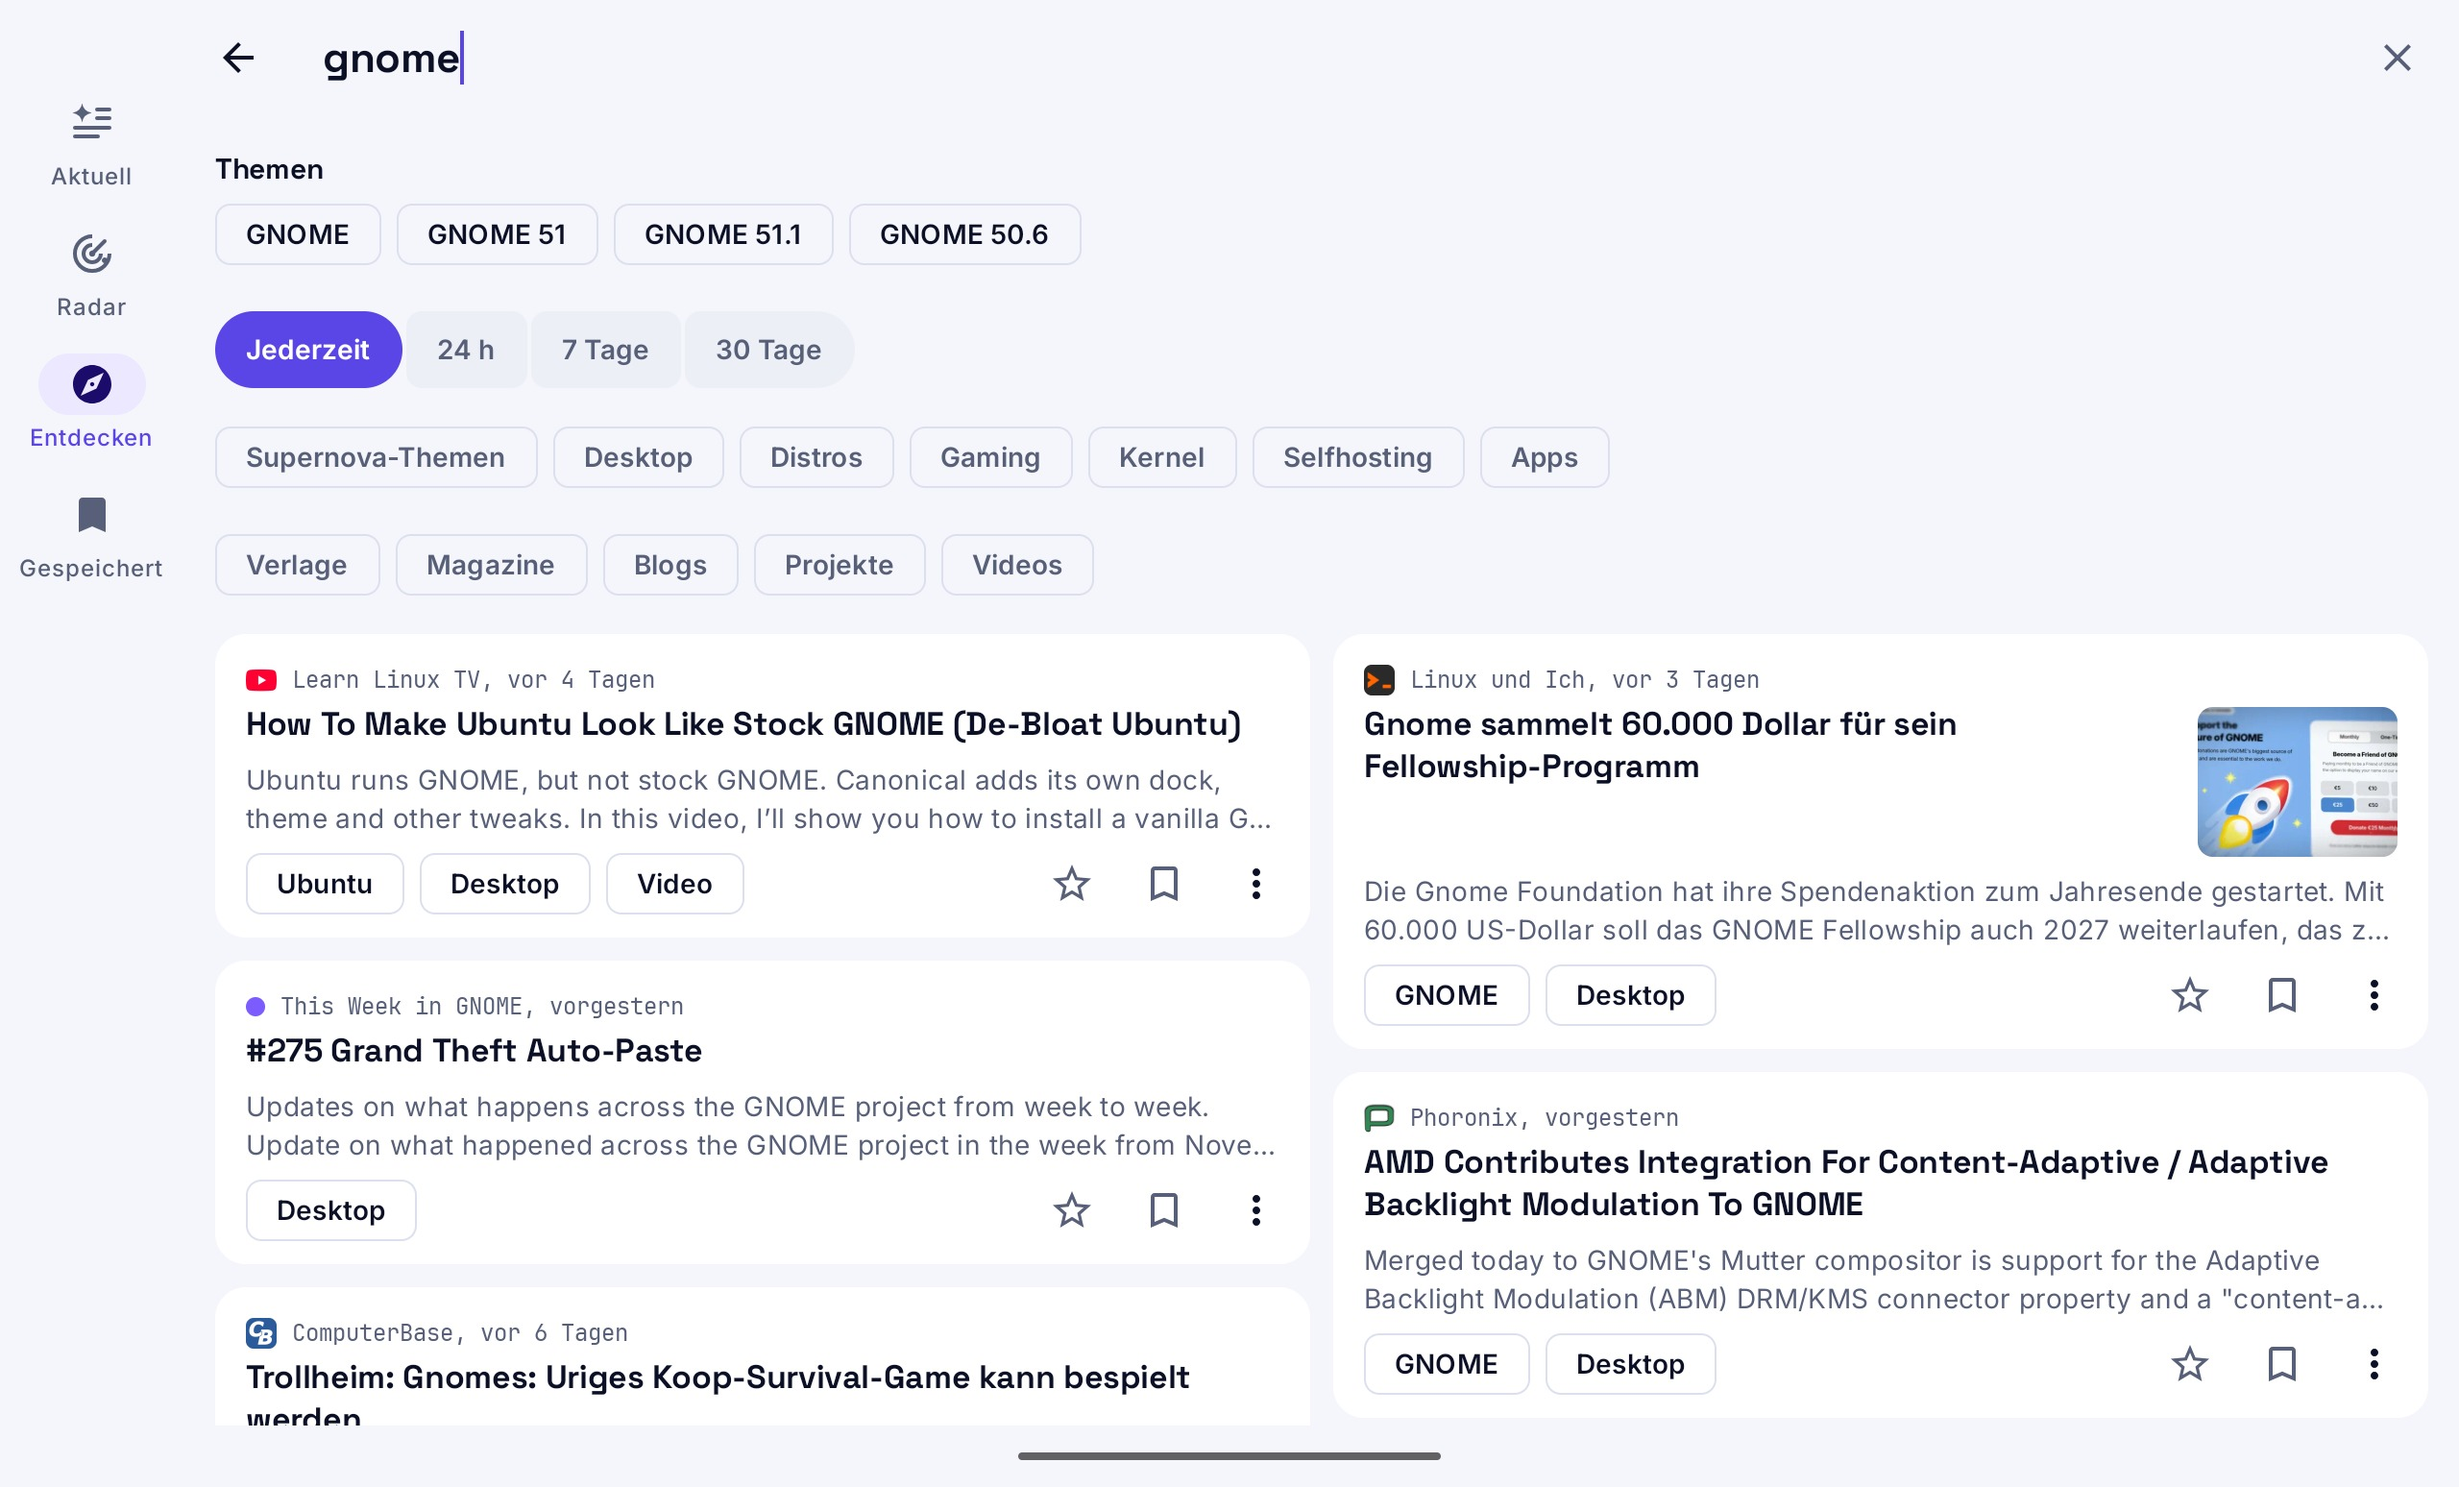
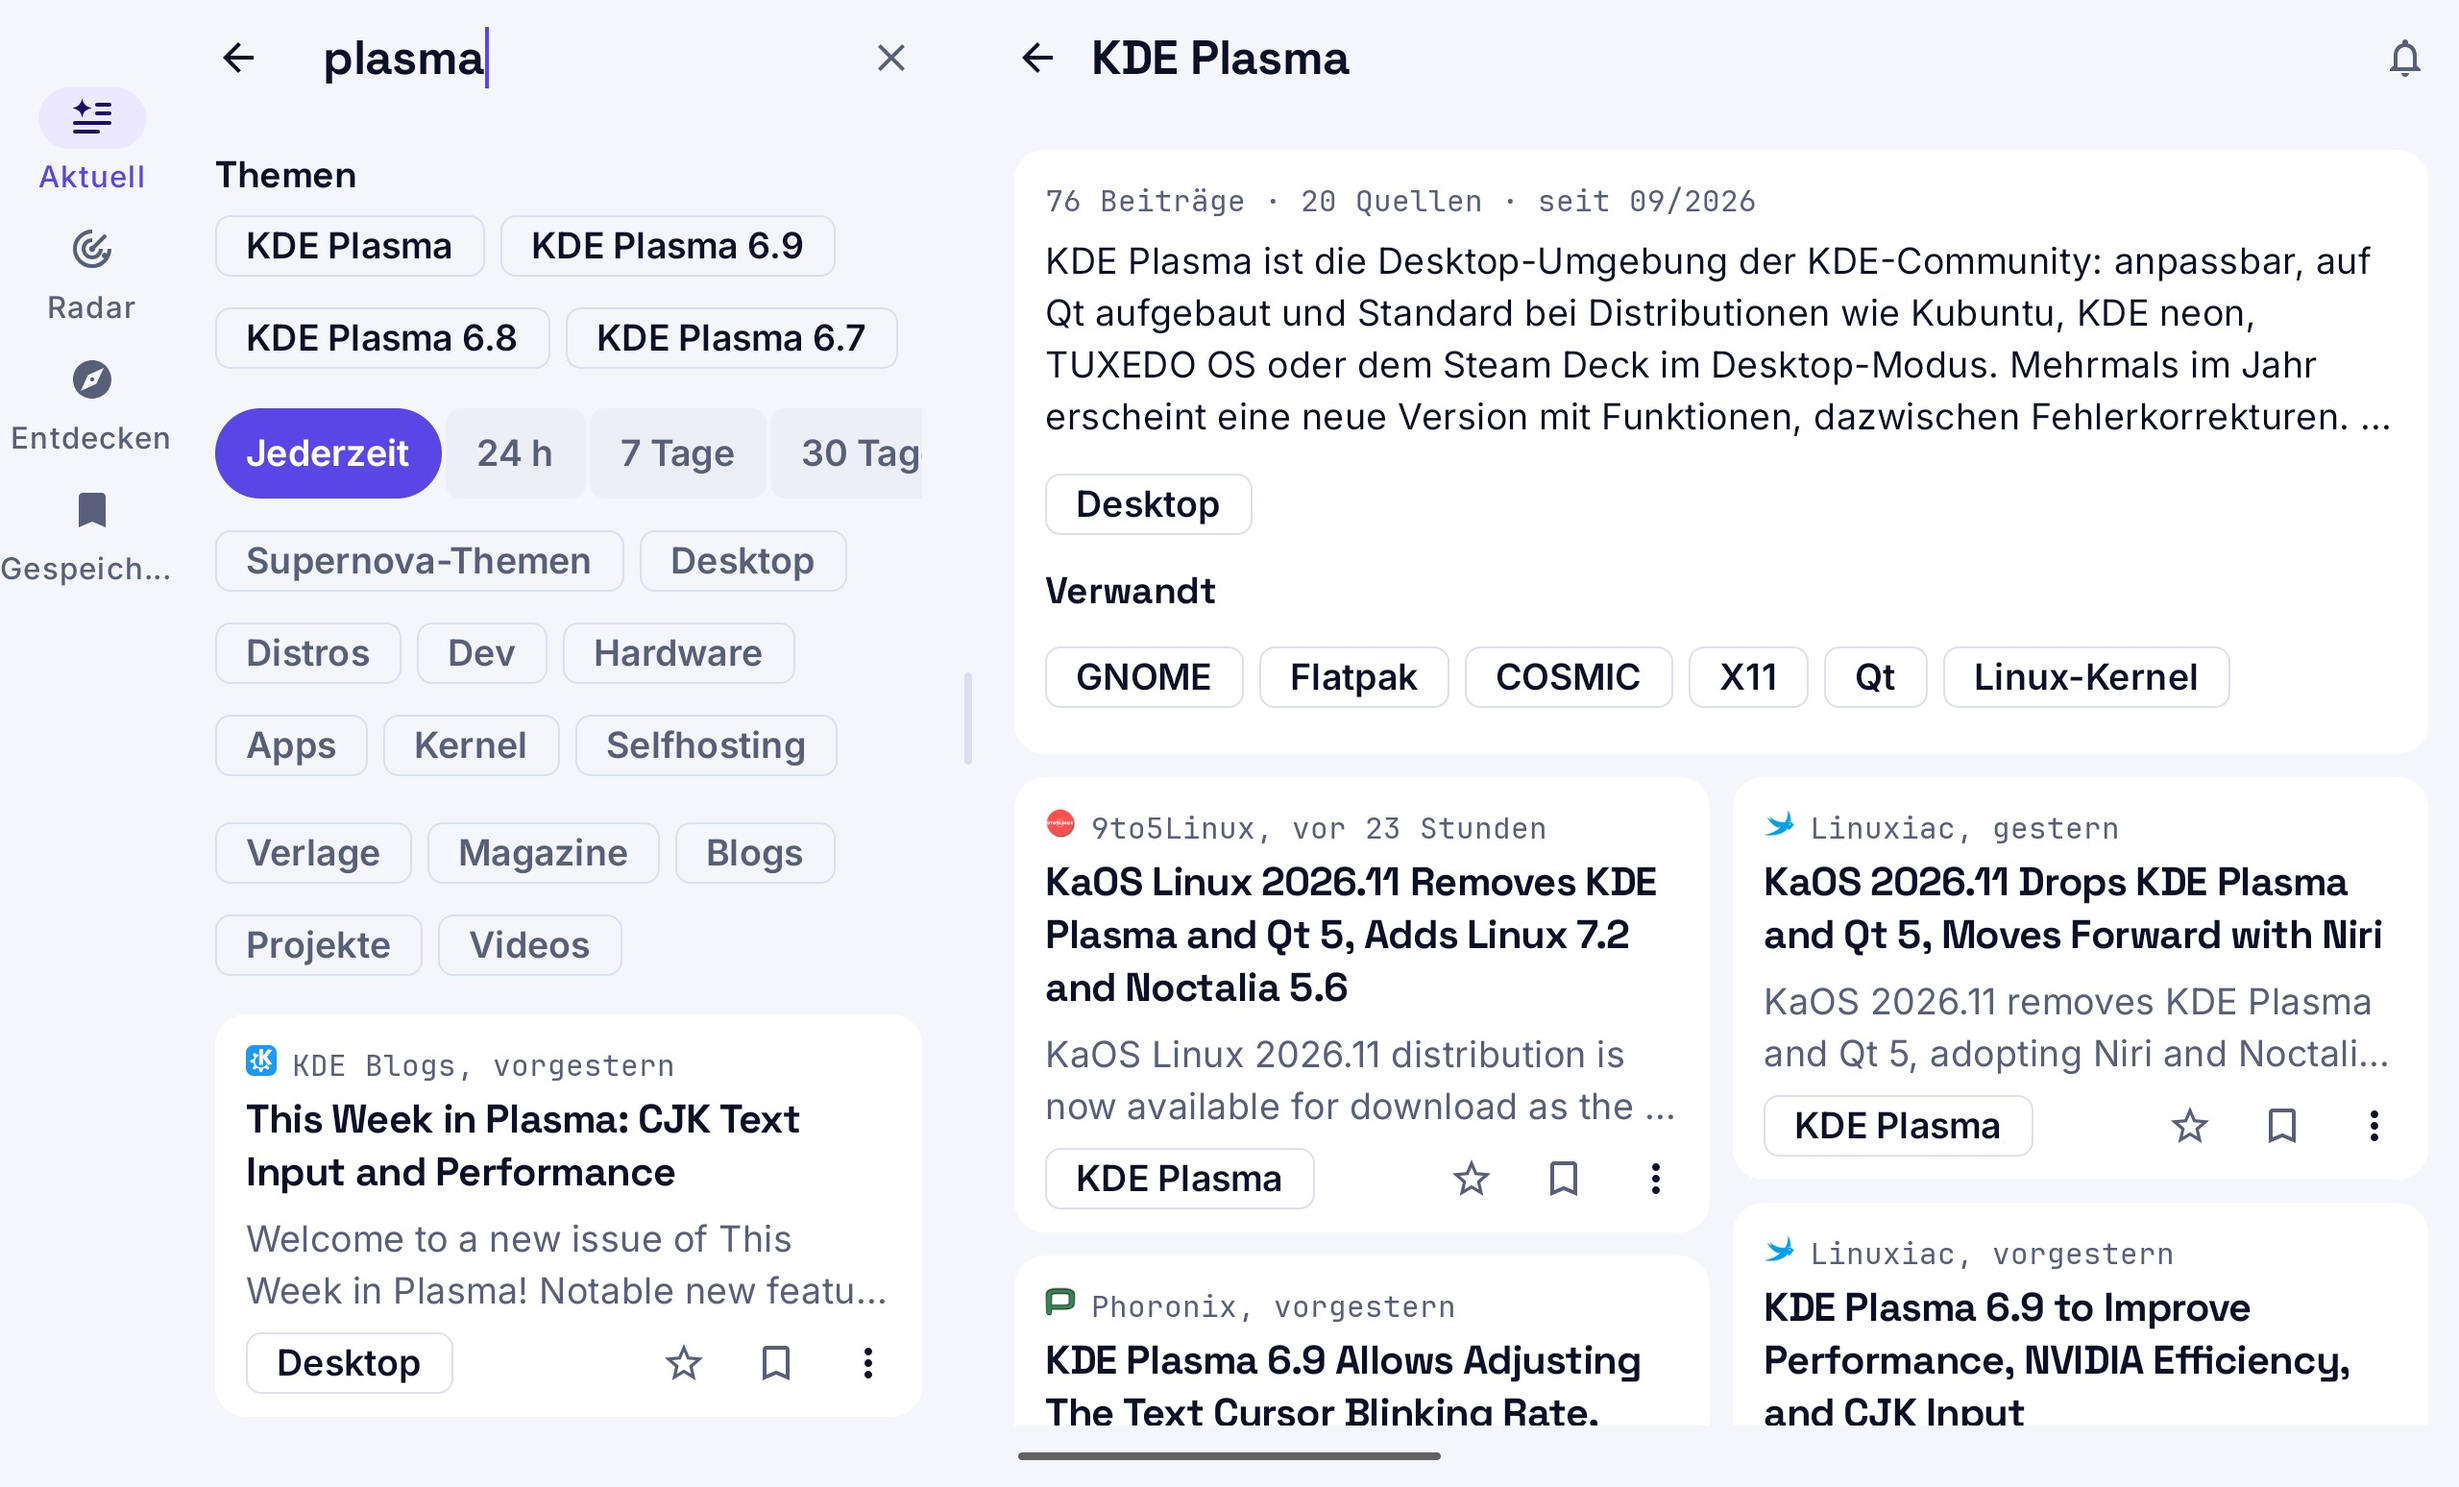
Store: tablet screenshots show the tablet mode
The five ten-inch images (DE + EN) now show list and detail side by
side: Latest with "Right now", the linuxundich.de post about the app in
the app's browser, Discover with the logbook, the topics directory with
GNOME, search with KDE Plasma (light) and Latest (dark). Captions and
order stay shared with the phone images. T5 checks of the tablet mode
recorded in BACKLOG and docs/11-tablet-mode.md.

diff --git a/docs/11-tablet-mode.md b/docs/11-tablet-mode.md
@@ -1,6 +1,6 @@
 # 11 – Tablet mode
 
-Status: concept, 2026-11-23. T4 built 2026-11-23 except the topic side column and the hinge (`SettingsPage`, `PaneHandle`). T3 built 2026-11-23 (`components/Keys.kt`: `Shortcut`, `KeyCursor`, `KeysDialog`; keys from `MainActivity.onKeyDown`). T2 built 2026-11-23 (article as `BrowserRoute` in the pane, setting `articlesBeside`). T1 built 2026-11-23 with D-T2 and D-T3 as proposed (`AppNavigation.kt`: a second NavHost for the pane, `SituationRoute`, handover on narrowing). T0 built 2026-11-23 (shared limits `TwoColumnsFrom`, `WideMaxWidth`, `SideBySideFrom` in `ui/theme/Dimens.kt`). Mockups: `docs/tablet-mode-mockup.html`.
+Status: concept, 2026-11-23. T5 checks and new tablet store images done 2026-11-23. T4 built 2026-11-23 except the topic side column and the hinge (`SettingsPage`, `PaneHandle`). T3 built 2026-11-23 (`components/Keys.kt`: `Shortcut`, `KeyCursor`, `KeysDialog`; keys from `MainActivity.onKeyDown`). T2 built 2026-11-23 (article as `BrowserRoute` in the pane, setting `articlesBeside`). T1 built 2026-11-23 with D-T2 and D-T3 as proposed (`AppNavigation.kt`: a second NavHost for the pane, `SituationRoute`, handover on narrowing). T0 built 2026-11-23 (shared limits `TwoColumnsFrom`, `WideMaxWidth`, `SideBySideFrom` in `ui/theme/Dimens.kt`). Mockups: `docs/tablet-mode-mockup.html`.
 Decisions D-T1 to D-T5 confirmed 2026-11-23 as proposed.
 
 ## Problem

diff --git a/BACKLOG.md b/BACKLOG.md
@@ -170,7 +170,13 @@
   - [ ] T4 rest: topic and source head as a side column – only pays from ~1000 dp of pane width, which the Pixel Tablet
         never reaches (the pane is ~790 dp), so later for desktop windows; keep the dragged list width across restarts;
         foldable hinge (no content under it) – check with the Pixel Fold emulator in T5
-  - [ ] T5 device checks (tablet both ways, Fold, split screen, TalkBack) and new tablet store images
+  - [x] T5 checks in the emulator (2026-11-23): foldable open (841 x 701 dp: two panes, list 320, pane ~420), split
+        screen half (640 dp: one pane, the open topic moves onto the list), phone landscape (923 x 411 dp: rail, one
+        pane), tablet portrait and landscape in dark, German, 130 % font; accessibility tree: the marked row is
+        "checkable/checked" (Compose's way of `selected` for buttons), the handle is "Width of the list"
+  - [x] New tablet store images with list and detail side by side (2026-11-23, docs/store-screenshots, DE + EN)
+  - [ ] Upload the new tablet images in the Play Console (Christoph)
+  - [ ] T5 rest: TalkBack by ear on a real tablet; foldable hinge on a Pixel Fold emulator with a real hinge
 
 ## GitHub presentation
 

diff --git a/docs/store-screenshots/README.md b/docs/store-screenshots/README.md
@@ -13,6 +13,13 @@ PlanetFOSS CI. Phone and tablet share captions and order. Captions are short, on
 | 4 | Ein Thema, alle Quellen | One topic, every source | Topic GNOME |
 | 5 | Freie Software, hell oder dunkel | Free software, light or dark | Search (light), Latest (dark) |
 
+The tablet images (since 2026-11-23) show the tablet mode, list and detail side by side: 1 Latest with "Right now"
+(logbook band, supernova) on the right, 2 Latest with the linuxundich.de post about the app open in the app's browser
+on the right (consent dialog declined), 3 Discover with the logbook on the right, 4 the topics directory with GNOME on
+the right, 5 search "plasma" with KDE Plasma on the right (light) and Latest with "Right now" (dark). Taken in the
+Werkbank emulator on tinytin with the display set to 2560 x 1600 at 320 dpi (`wm size`, `wm density`), which is the
+Pixel Tablet's size.
+
 ## Build
 
 ```sh
